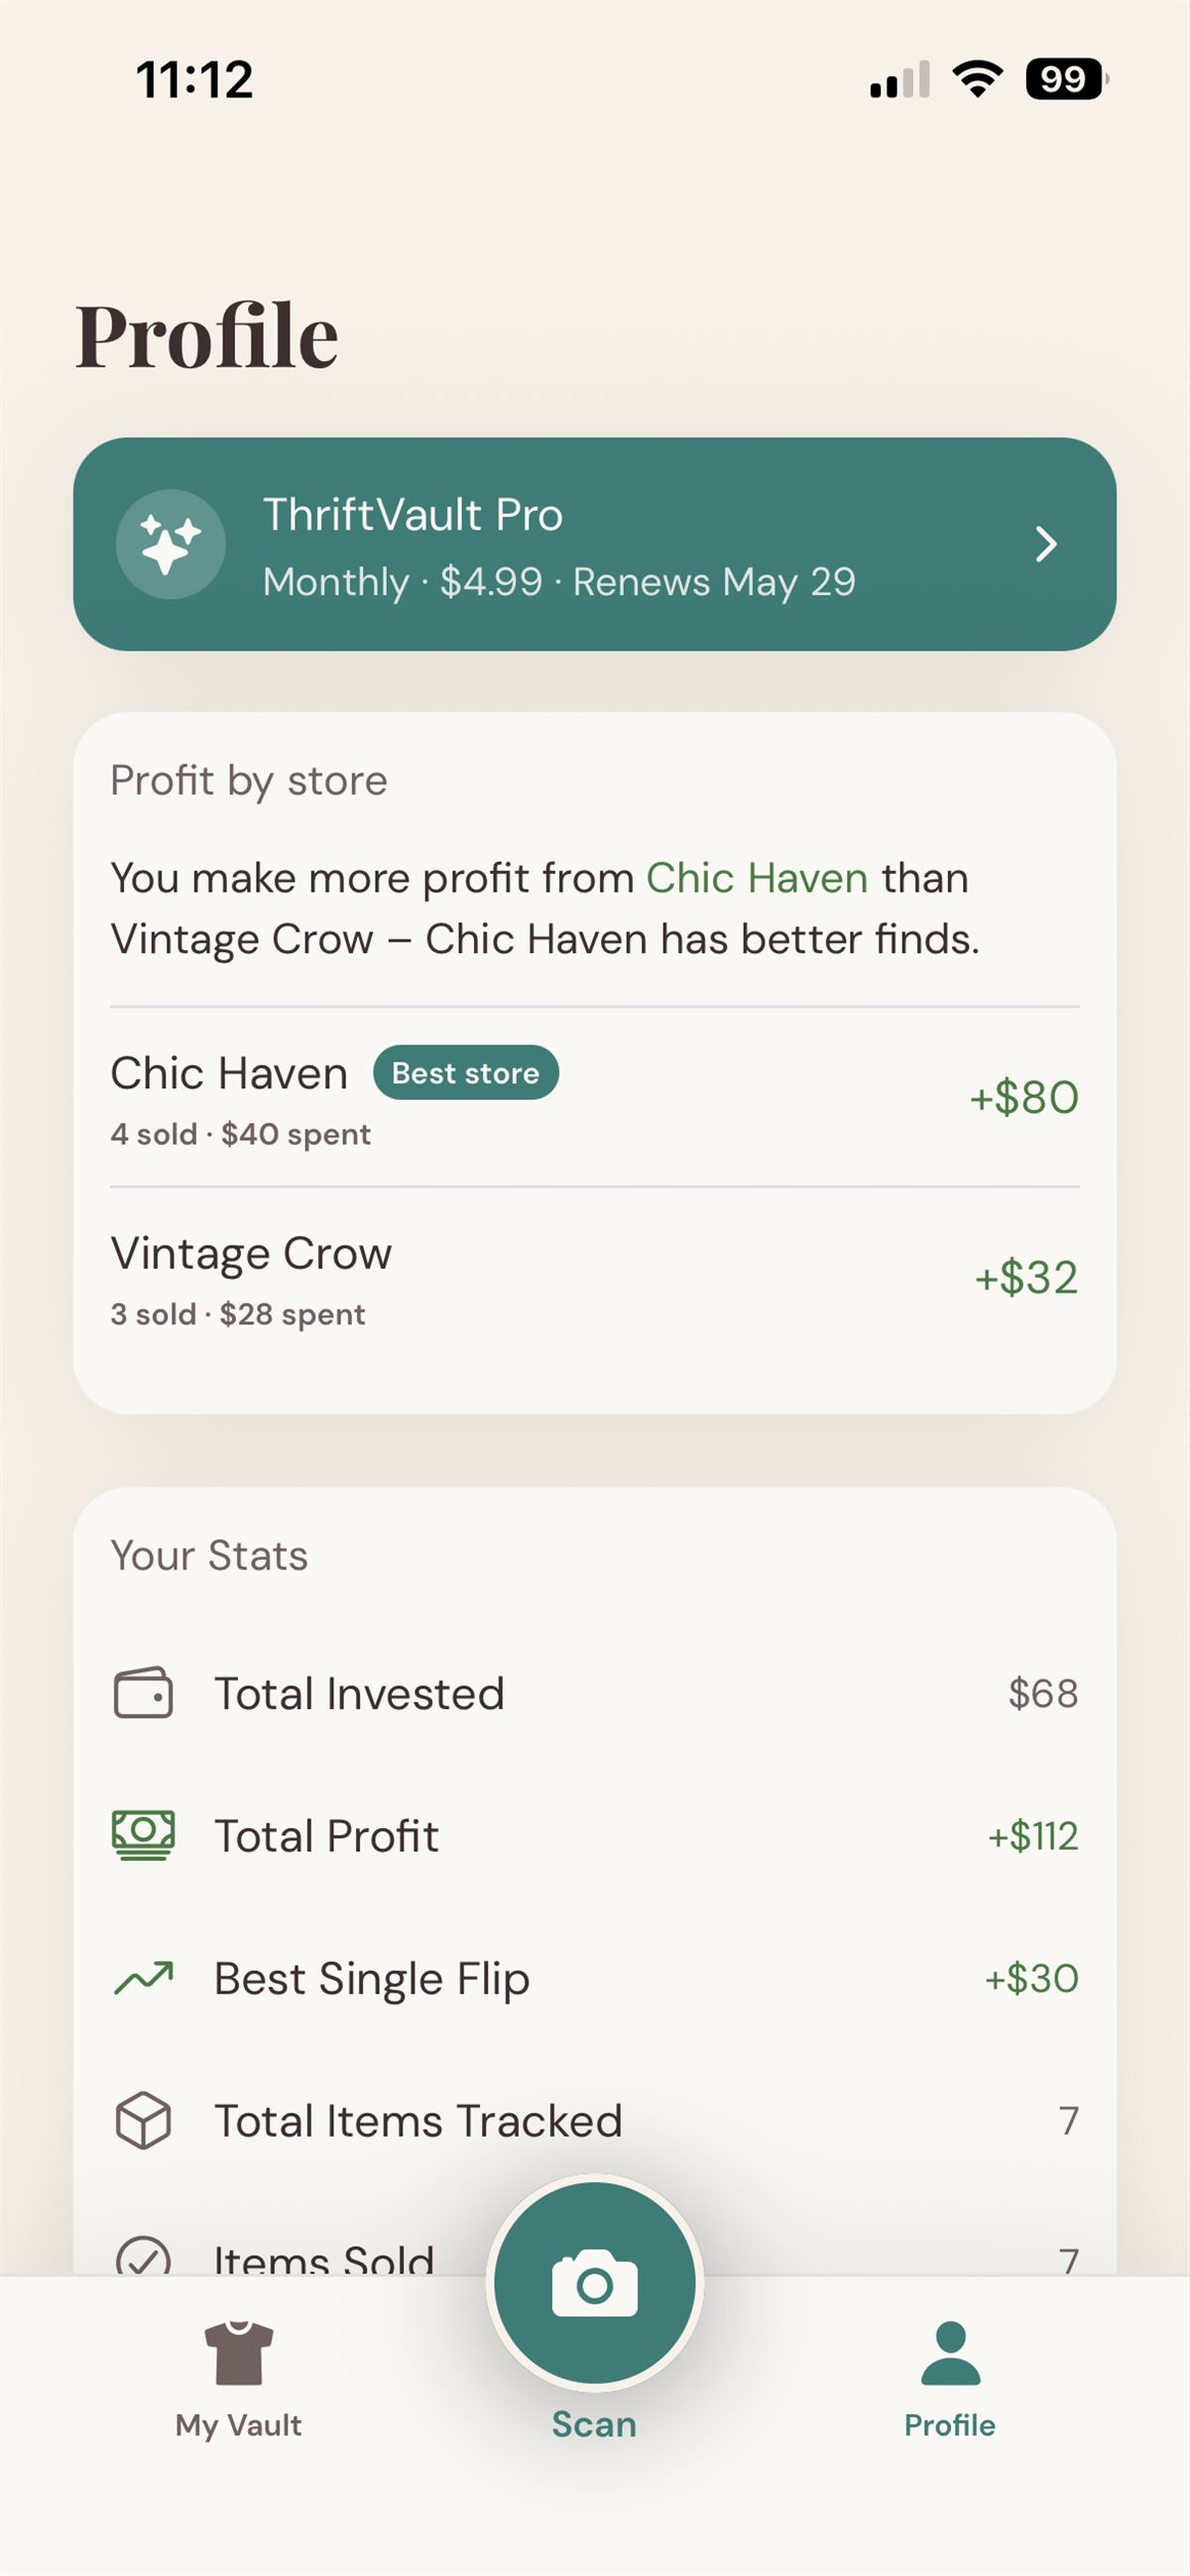
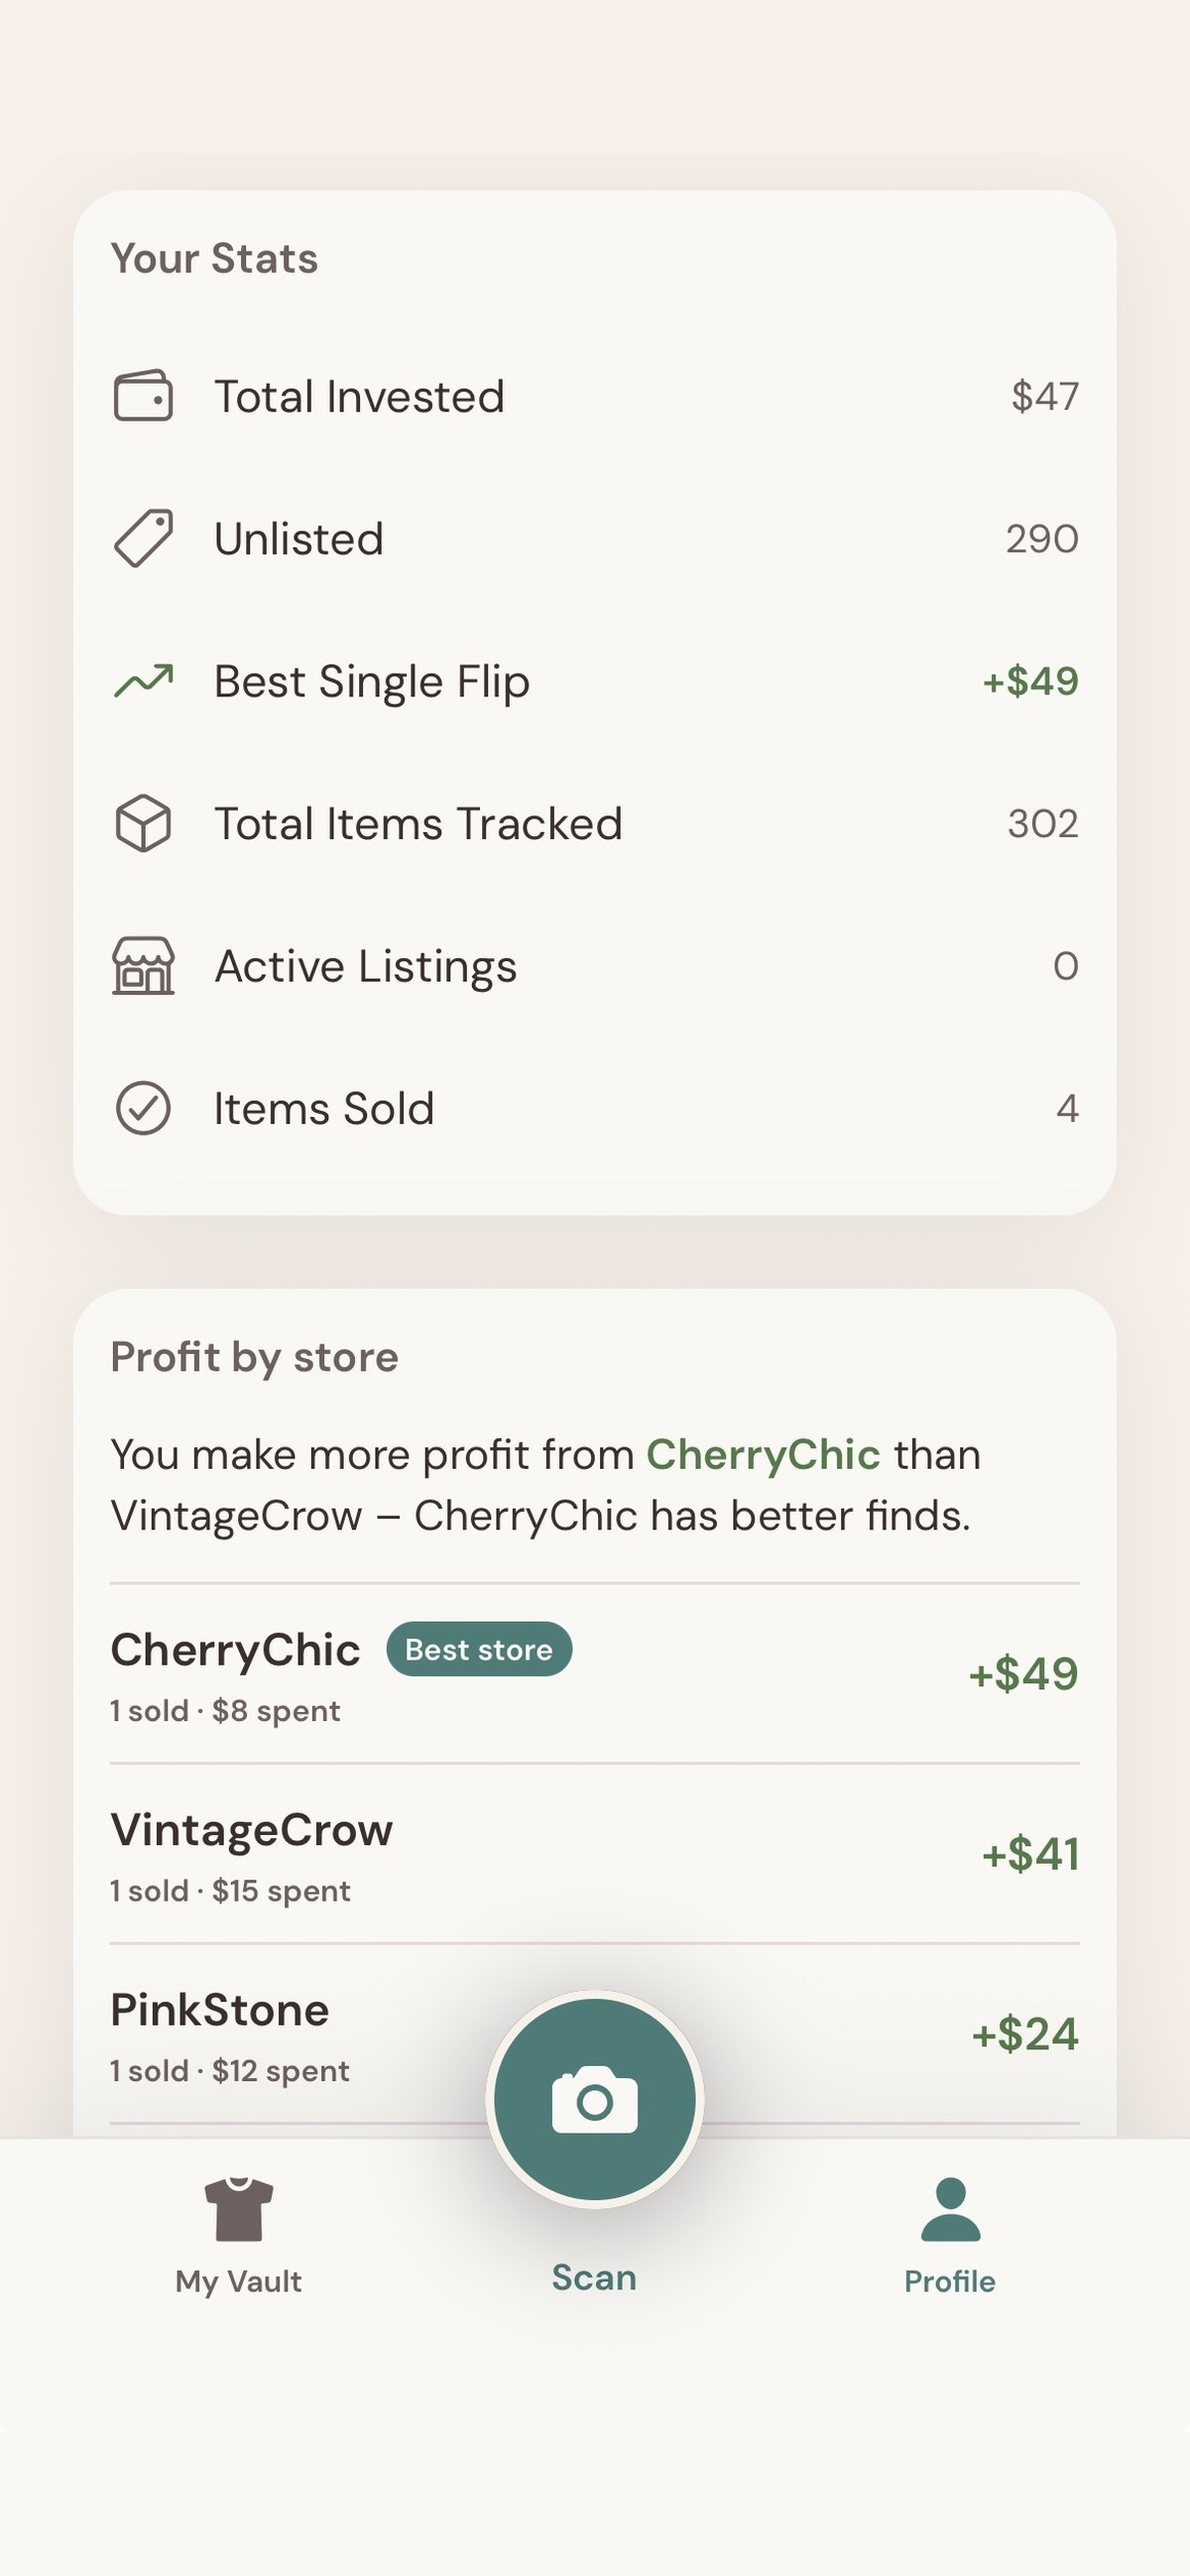
Screens: update scan, vault, hauls and profile to the current app design
Claude-Session: https://claude.ai/code/session_01SxWQTxXn4HzX1dUWLe8WoJ

diff --git a/index.html b/index.html
@@ -1045,7 +1045,7 @@
           <img
             class="screen-shot"
             src="assets/screenshots/01-scan.jpg"
-            alt="ThriftVault scan result showing a resale price range and confidence indicator for a thrifted item"
+            alt="ThriftVault fullscreen camera, ready to snap an item and scan it for resale value"
             width="1200"
             height="2597"
             loading="lazy"
@@ -1090,7 +1090,7 @@
           <img
             class="screen-shot"
             src="assets/screenshots/04-profile.jpg"
-            alt="ThriftVault profile screen showing total invested, profit, ROI, and top-performing stores"
+            alt="ThriftVault profile screen showing total invested, best single flip, and profit by store"
             width="1200"
             height="2597"
             loading="lazy"
